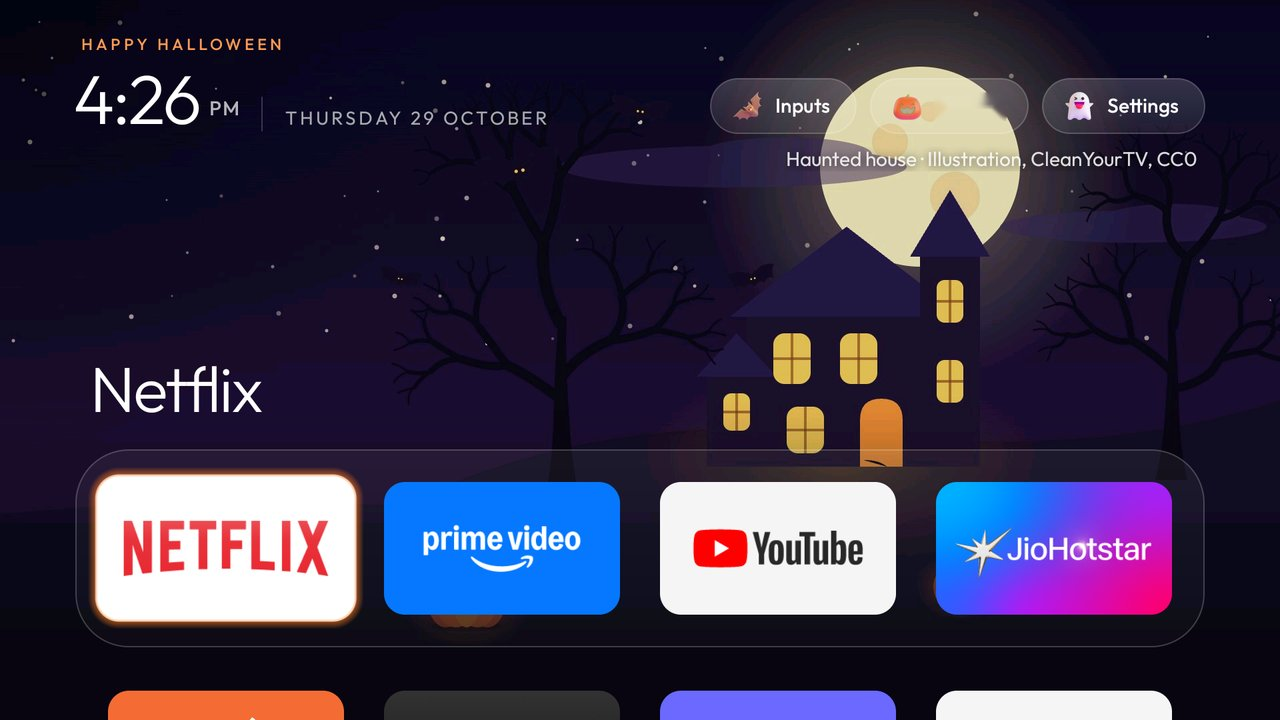
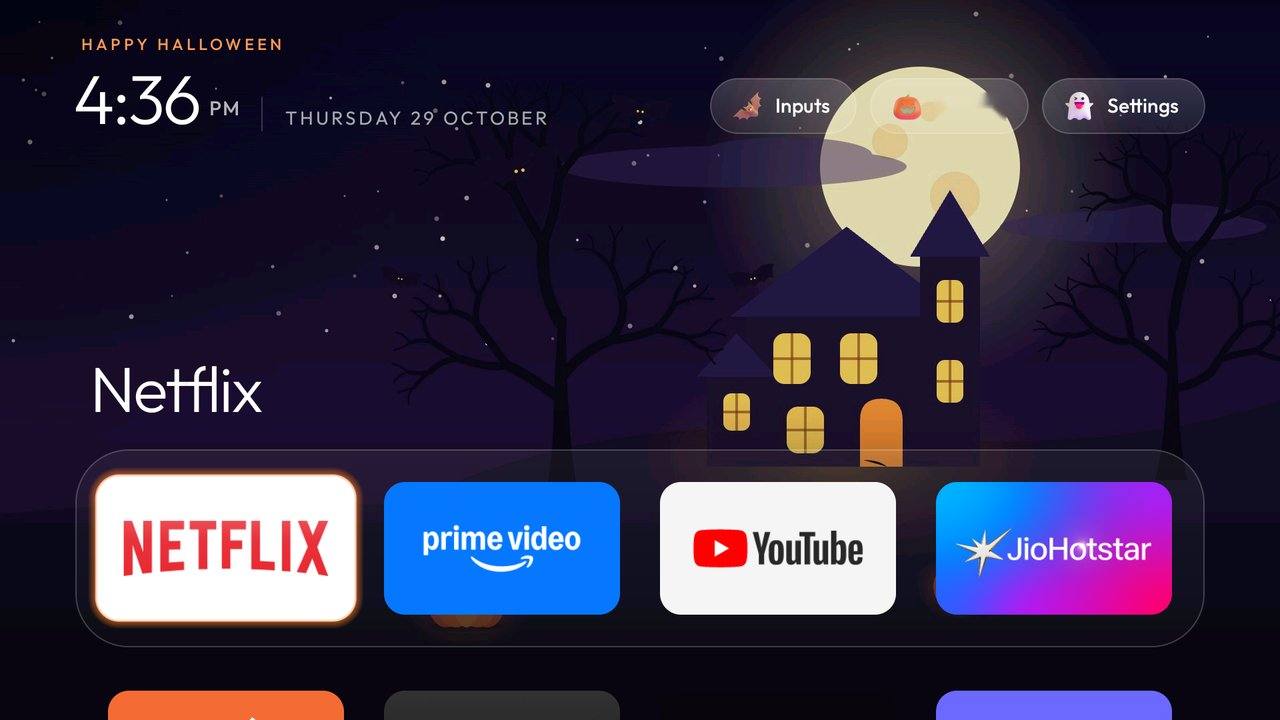
Halloween: no on-screen photo credits (theme caption off, Haunted credit line removed); new Haunted and theme screenshots

Changed region(s): [[0.5, 0.9472, 0.9375, 1.0], [0.5938, 0.2139, 0.9375, 0.2444], [0.0938, 0.0917, 0.125, 0.1833]]

diff --git a/addons/haunted/app/src/main/java/com/gathin/haunted/HauntedView.java b/addons/haunted/app/src/main/java/com/gathin/haunted/HauntedView.java
@@ -15,9 +15,7 @@ import android.graphics.Typeface;
 import android.text.format.DateFormat;
 import android.view.View;
 
-import java.io.BufferedReader;
 import java.io.InputStream;
-import java.io.InputStreamReader;
 import java.util.ArrayList;
 import java.util.Date;
 import java.util.List;
@@ -37,7 +35,6 @@ public class HauntedView extends View {
 
     private final Random rng = new Random();
     private final List<String> files = new ArrayList<>();
-    private final List<String> credits = new ArrayList<>();
     private final Paint photoPaint = new Paint(Paint.FILTER_BITMAP_FLAG);
     private final Paint fill = new Paint(Paint.ANTI_ALIAS_FLAG);
     private final Paint text = new Paint(Paint.ANTI_ALIAS_FLAG);
@@ -84,11 +81,8 @@ public class HauntedView extends View {
             String[] names = c.getAssets().list("photos");
             if (names != null) for (String n : names) if (n.endsWith(".jpg")) files.add(n);
             java.util.Collections.sort(files);
-            try (BufferedReader r = new BufferedReader(new InputStreamReader(c.getAssets().open("photos/captions.txt"), "UTF-8"))) {
-                for (String line; (line = r.readLine()) != null; ) credits.add(line);
-            }
         } catch (Exception ignored) {
-            // No photos or captions: the screen stays night-black with the bats and the ghost.
+            // No photos: the screen stays night-black with the bats and the ghost.
         }
         for (int i = 0; i < bats.length; i++) bats[i] = new Bat();
     }
@@ -140,7 +134,7 @@ public class HauntedView extends View {
         drawGlow(canvas, now, w, h);
         drawGhost(canvas, now, dt, w, h);
         drawBats(canvas, now, dt, w, h);
-        drawClockAndCredit(canvas, now, w, h);
+        drawClock(canvas, now, w, h);
     }
 
     private void drawPhotos(Canvas c, long now, int w, int h) {
@@ -261,7 +255,7 @@ public class HauntedView extends View {
         }
     }
 
-    private void drawClockAndCredit(Canvas c, long now, int w, int h) {
+    private void drawClock(Canvas c, long now, int w, int h) {
         long minute = now / 60_000;
         if (minute != clockMinute) {
             clockMinute = minute;
@@ -271,14 +265,5 @@ public class HauntedView extends View {
         text.setTextAlign(Paint.Align.RIGHT);
         text.setTextSize(30 * dp);
         c.drawText(clockText, w - 36 * dp, 56 * dp, text);
-        if (index >= 0 && index < credits.size()) {
-            String line = credits.get(index);
-            int tab = line.indexOf('\t');
-            if (tab >= 0) line = line.substring(tab + 1);
-            text.setColor(0x99FFFFFF);
-            text.setTextAlign(Paint.Align.LEFT);
-            text.setTextSize(13 * dp);
-            c.drawText(line, 36 * dp, h - 30 * dp, text);
-        }
     }
 }

diff --git a/themes/README.md b/themes/README.md
@@ -24,7 +24,7 @@ refused (copy a theme first), and a `config.json` it cannot read is named before
 | `cinematic/` | OLED and cinema look: true-colour wallpaper, a 6-column frosted-glass dock, no ambient glow and the idle clock after two minutes | <img src="cinematic/screenshot.jpg" width="320" alt="cinematic theme"> |
 | `dussehra/` | Festive skin for Dussehra (ends 21 Oct 2026): a marigold toran, a faint gold rangoli, a diya for Wi-Fi, a bell for Inputs, a marigold for Settings and a petal shower | <img src="dussehra/screenshot.jpg" width="320" alt="dussehra theme"> |
 | `glass/` | Dark navy wallpaper with soft teal and violet light, the cinematic top shelf, a frosted-glass dock, icon-only buttons and the focus glow in the app's colour, gliding without overshoot | <img src="glass/screenshot.jpg" width="320" alt="glass theme"> |
-| `halloween/` | Halloween until 1 Nov 2026: an illustrated haunted house (our own, CC0) and seven night photos from Wikimedia Commons (jack-o'-lanterns by candlelight, a full moon behind a sequoia grove and over a Swedish fjord, a moonrise, two cemeteries in fog), a new one every 30 minutes with its place and photographer under the buttons, and a frosted-glass dock. With a launcher that knows `seasonal_skin`, the Halloween skin too: a jack-o'-lantern for Wi-Fi that glows while online, a bat for Inputs, a ghost for Settings, bats over the first Home of the day and "Happy Halloween"; it switches itself off after 1 November, the pictures stay until `--reset`. The illustration is CC0; the photos are CC0, public domain, CC BY and CC BY-SA, not MIT: see `halloween/CREDITS.md` | <img src="halloween/screenshot.jpg" width="320" alt="halloween theme"> |
+| `halloween/` | Halloween until 1 Nov 2026: an illustrated haunted house (our own, CC0) and seven night photos from Wikimedia Commons (jack-o'-lanterns by candlelight, a full moon behind a sequoia grove and over a Swedish fjord, a moonrise, two cemeteries in fog), a new one every 30 minutes (credited in `halloween/CREDITS.md`, not on screen), and a frosted-glass dock. With a launcher that knows `seasonal_skin`, the Halloween skin too: a jack-o'-lantern for Wi-Fi that glows while online, a bat for Inputs, a ghost for Settings, bats over the first Home of the day and "Happy Halloween"; it switches itself off after 1 November, the pictures stay until `--reset`. The illustration is CC0; the photos are CC0, public domain, CC BY and CC BY-SA, not MIT: see `halloween/CREDITS.md` | <img src="halloween/screenshot.jpg" width="320" alt="halloween theme"> |
 | `nature-calm/` | Twelve calm nature photos from Wikimedia Commons (misty karst and forest, autumn lakes, spring bluebells, winter frost, mossy woods, a rainforest lake, waterfalls), a new one every five minutes in random order with its place and photographer under the buttons; six small tiles in a frosted-glass dock, round icon-only buttons, no hero name. The photos are CC BY / CC BY-SA, not MIT: see `nature-calm/CREDITS.md` | <img src="nature-calm/screenshot.jpg" width="320" alt="nature-calm theme"> |
 | `ruska/` | A Finnish autumn ("ruska") dusk over a lake: spruce shoreline, birches in autumn colour, a few falling leaves, drawn in code by `make_wallpaper.py`. The app-colour glow stays off the picture so the autumn colours keep their own light; the dock is 70% opaque so the lake shows through, and the focus glows in the app's colour without overshoot | <img src="ruska/screenshot.jpg" width="320" alt="ruska theme"> |
 | `scenes/` | 14 dark illustrated landscapes in `wallpapers/`, a new one every hour; drawn from code by `tools/scenes_wallpapers.py` | <img src="scenes/screenshot.jpg" width="320" alt="scenes theme"> |

diff --git a/addons/haunted/README.md b/addons/haunted/README.md
@@ -57,8 +57,8 @@ crossfades, `FRAME_MS` for the frame rate, and the numbers in `drawBats` and `dr
 
 The photos are the Halloween theme's wallpapers (`themes/halloween/`), cropped, colour-graded toward night and
 darkened toward the edges (see the theme's [CREDITS.md](../../themes/halloween/CREDITS.md)), here scaled to 1280x720.
-Each keeps its own licence, not the repository's MIT licence, and its name, author and licence show at the bottom left
-while it is on screen. Adaptations of the CC BY-SA pictures stay under CC BY-SA.
+Each keeps its own licence, not the repository's MIT licence; the screensaver shows no credit text, so the credits
+below are the attribution. Adaptations of the CC BY-SA pictures stay under CC BY-SA.
 
 - "Jack-O-Lantern at night.jpg" by Alabama Extension, CC0 1.0
   https://commons.wikimedia.org/wiki/File:Jack-O-Lantern_at_night.jpg

diff --git a/themes/halloween/CREDITS.md b/themes/halloween/CREDITS.md
@@ -24,8 +24,8 @@ the top-left corner so the dock and the clock stay readable. Adaptations of the 
 Licences: CC0 1.0 https://creativecommons.org/publicdomain/zero/1.0/ · CC BY 4.0
 https://creativecommons.org/licenses/by/4.0/ · CC BY-SA 4.0 https://creativecommons.org/licenses/by-sa/4.0/
 
-With `wallpaper_captions` on (this theme turns it on) each picture's name, author and licence shows under the
-top-right buttons while it is on screen.
+The pictures' names, authors and licences are listed here and in `wallpapers/captions.txt`; this theme keeps
+`wallpaper_captions` off, so nothing is written over the picture.
 
 The launcher's Halloween icons (the jack-o'-lantern on the network pill, lit and dark, the bat on Inputs and in the
 first-Home flight, the ghost on Settings) are from Microsoft's Fluent Emoji 3D, MIT licence, Copyright (c)
